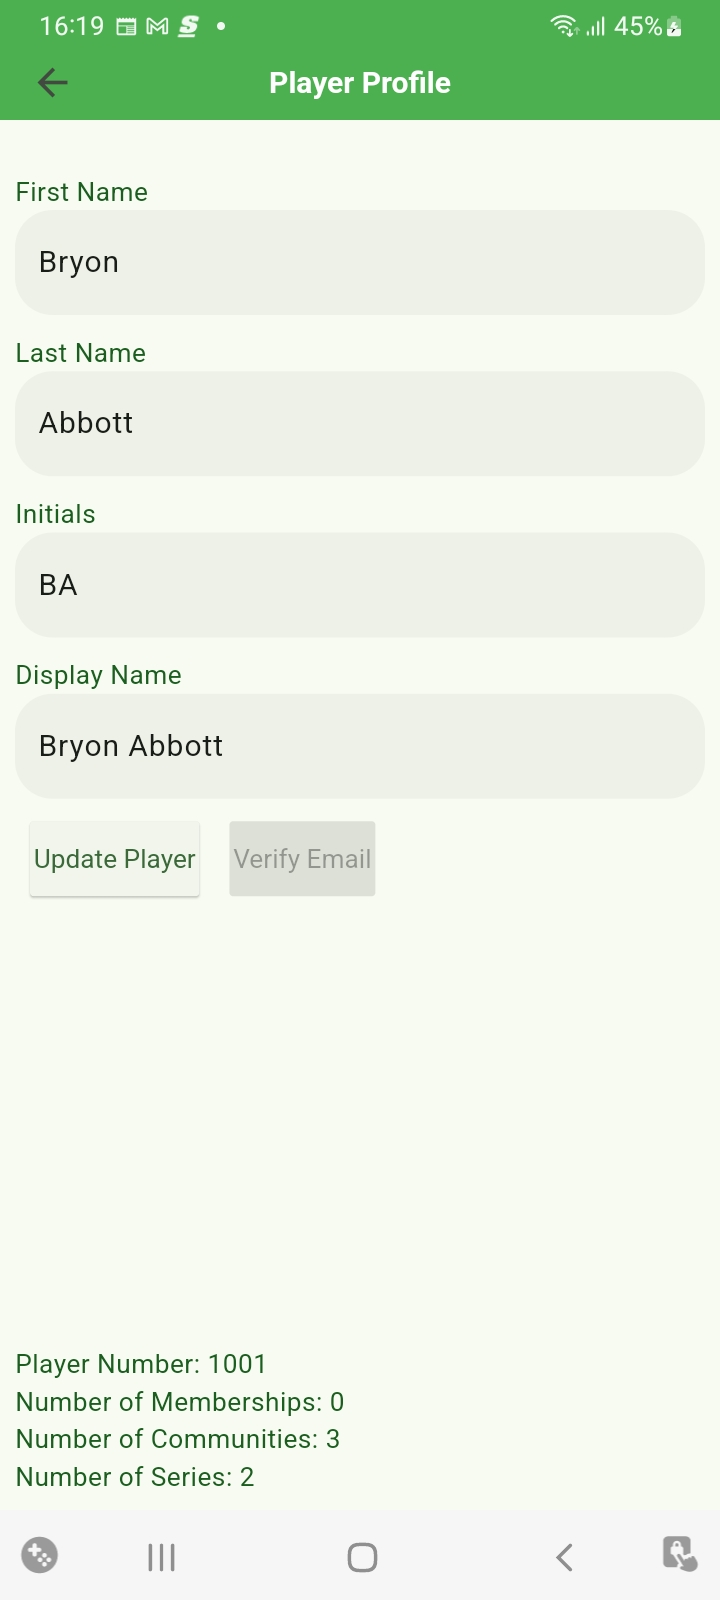
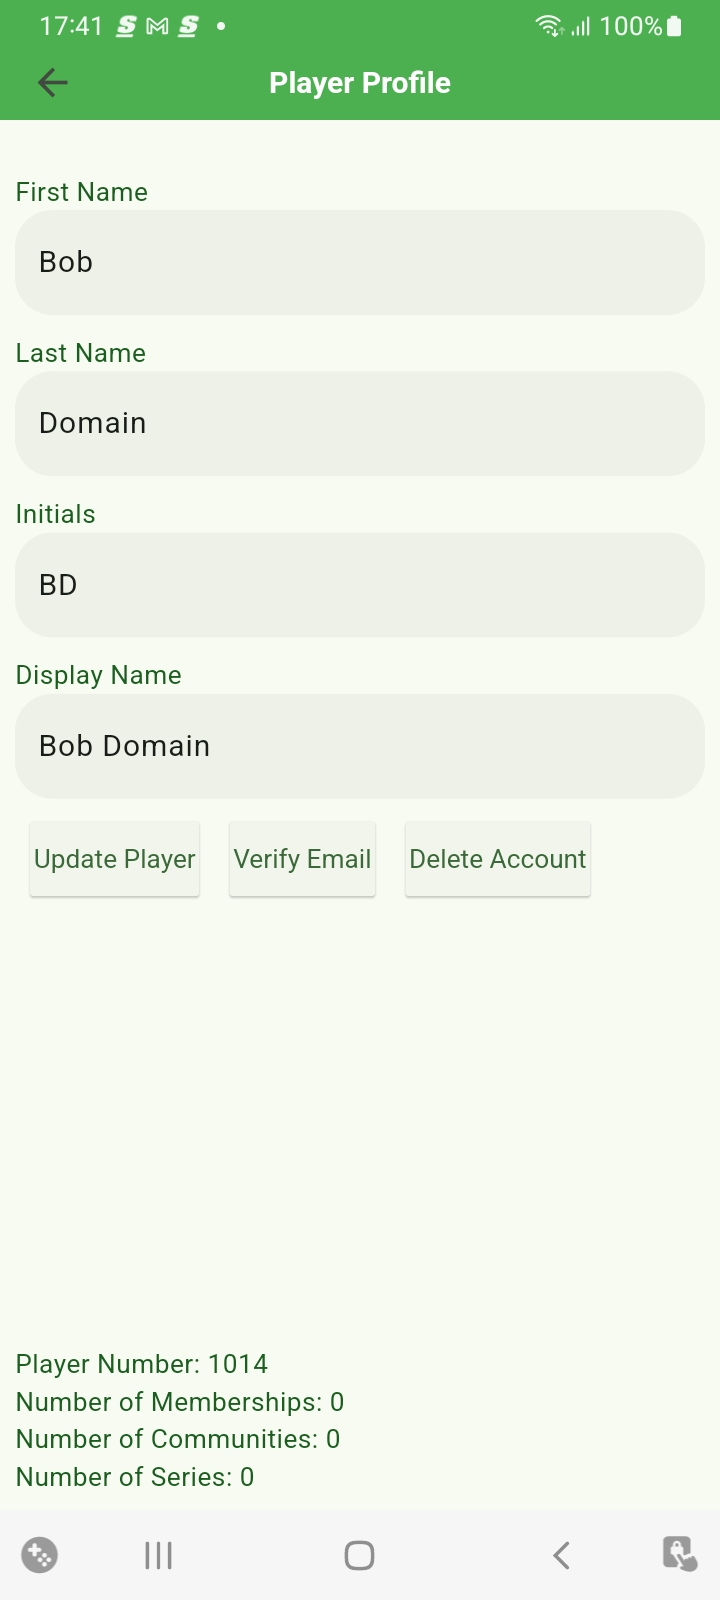
Added Delete capability on Profile Page Update Player model to include status (1=Active/0=Disabled)

diff --git a/lib/models/player.dart b/lib/models/player.dart
@@ -2,6 +2,7 @@ import 'dart:developer';
 
 import 'package:bruceboard/models/firestoredoc.dart';
 import 'package:bruceboard/services/auth.dart';
+import 'package:firebase_auth/firebase_auth.dart';
 import 'package:intl/intl.dart';
 
 class BruceUser {
@@ -31,6 +32,43 @@ class BruceUser {
   void sendPasswordResetEmail(email){
     _auth.sendPasswordResetEmail(email);
   }
+
+  bool deleteUserAccount()  {
+    try {
+      _auth.currentUser!.delete();
+    } on FirebaseAuthException catch (e) {
+      log("${e.code}, ${e.message}", name: '${runtimeType.toString()}:deleteUserAccount()');
+      if (e.code == "requires-recent-login") {
+        return false;
+        //        await _reauthenticateAndDelete();
+      } else {
+        // Handle other Firebase exceptions
+      }
+    } catch (e) {
+      log("${e}");
+      // Handle general exception
+    }
+    return true;
+  }
+
+  Future<void> _reauthenticateAndDelete() async {
+    log("Reauthenticating ... ", name: '${runtimeType.toString()}:_reauthenticateAndDelete()');
+    try {
+      final providerData = _auth.currentUser?.providerData.first;
+      if (AppleAuthProvider().providerId == providerData!.providerId) {
+        await _auth.currentUser!
+            .reauthenticateWithProvider(AppleAuthProvider());
+      } else if (GoogleAuthProvider().providerId == providerData.providerId) {
+        await _auth.currentUser!
+            .reauthenticateWithProvider(GoogleAuthProvider());
+      }
+
+      await _auth.currentUser?.delete();
+    } catch (e) {
+      log("Unhandled Error ... ", name: '${runtimeType.toString()}:_reauthenticateAndDelete()');
+      // Handle exceptions
+    }
+  }
 }
 
 class Player implements FirestoreDoc {
@@ -49,6 +87,7 @@ class Player implements FirestoreDoc {
   String lName;
   String initials;
   int pid;
+  int status;  // 0 = Deleted, 1 = Active,
 
   // Totals
   int noMemberships = 0;
@@ -74,6 +113,7 @@ class Player implements FirestoreDoc {
         fName = data['fName'] ?? 'Fname',
         lName = data['lName'] ?? 'Lname',
         initials = data['initials'] ?? 'FL',
+        status = data['status'] ?? 1,  // If not found, assume active?
         autoProcessReq = data['autoProcessReq'] ?? false,
         autoProcessNot = data['autoProcessNot'] ?? false,
         autoProcessAck = data['autoProcessAck'] ?? false,
@@ -104,6 +144,7 @@ class Player implements FirestoreDoc {
     fName = data['fName'] ?? fName;
     lName = data['lName'] ?? lName;
     initials = data['initials'] ?? initials;
+    status = data['status'] ?? status;
     autoProcessReq = data['autoProcessReq'] ?? autoProcessReq;
     autoProcessNot = data['autoProcessNot'] ?? autoProcessNot;
     autoProcessAck = data['autoProcessAck'] ?? autoProcessAck;
@@ -137,6 +178,7 @@ class Player implements FirestoreDoc {
       'fName': fName,
       'lName': lName,
       'initials': initials,
+      'status': status,
       'autoProcessReq': autoProcessReq,  // Server Side - Not Required here?
       'autoProcessNot': autoProcessNot,
       'autoProcessAck': autoProcessAck,

diff --git a/lib/pages/player/player_profile_ctrl.dart b/lib/pages/player/player_profile_ctrl.dart
@@ -29,7 +29,7 @@ abstract class PlayerProfileCtrl extends State<PlayerProfilePage> {
       player.fName = _currentFName ?? player.fName;
       player.lName = _currentLName ?? player.lName;
       player.initials = _currentInitials ?? player.initials;
-      player.pid = player.pid;
+      //player.pid = player.pid;
       // log("player_profile: Update Player ${player.fName}");
       await DatabaseService(FSDocType.player, uid: bruceUser?.uid).fsDocUpdate(player);
       await AuthService().updateDisplayName(
@@ -46,5 +46,53 @@ abstract class PlayerProfileCtrl extends State<PlayerProfilePage> {
     if (bruceUser != null) {
       bruceUser!.sendEmailVerification();
     }
+  }
+
+  Future<void> deleteOnPressed() async {
+    log("Pressed delete", name: "${runtimeType.toString()}:deleteOnPressed()");
+    showDialog(
+      context: context,
+      builder: (BuildContext context) {
+        return AlertDialog(
+          title: const Text('Delete your Account?'),
+          content: const Text(
+              '''If you select Delete we will delete your account on our server.
+
+Your app data will also be deleted and you won't be able to retrieve it.
+
+Since this is a security-sensitive operation, you eventually are asked to login before your account can be deleted.'''),
+          actions: [
+            ElevatedButton(
+              child: const Text('Cancel'),
+              onPressed: () {
+                Navigator.of(context).pop();
+              },
+            ),
+            ElevatedButton(
+              child: const Text('Delete',
+                  style: TextStyle(color: Colors.red)
+              ),
+              onPressed:() {
+                log("Pressed second RED delete", name: "${runtimeType.toString()}:deleteOnPressed()");
+                bool rc = bruceUser!.deleteUserAccount();
+                if (rc) { // If deleted, set Player status to Disabled
+                  log("Account Deleted ...", name: "${runtimeType.toString()}:deleteOnPressed()");
+                  player.status = 0;
+                  DatabaseService(FSDocType.player, uid: bruceUser?.uid).fsDocUpdate(player);
+                  log("Player Update to Disabled ...", name: "${runtimeType.toString()}:deleteOnPressed()");
+                } else {
+                  // if (!context.mounted) return;
+                  log("Account NOT  Deleted ...", name: "${runtimeType.toString()}:deleteOnPressed()");
+                  ScaffoldMessenger.of(context).showSnackBar(
+                      const SnackBar(content: Text("This operation is sensitive and requires recent authentication. Log in again before retrying this request..."))
+                  );
+                }
+                Navigator.of(context).pop();
+              },
+            ),
+          ],
+        );
+      },
+    );
   }
 }

diff --git a/lib/pages/player/player_profile_page.dart b/lib/pages/player/player_profile_page.dart
@@ -89,6 +89,14 @@ class _PlayerProfilePage extends PlayerProfileCtrl {
                                   onPressed: (bruceUser?.emailVerified ?? true) ? null : verifyOnPressed,
                                   child: const Text("Verify Email")),
                             ),
+                            Padding(
+                              padding: const EdgeInsets.all(8.0),
+                              child: ElevatedButton(
+                                  onPressed:() async {
+                                    await deleteOnPressed();
+                                  },
+                                  child: const Text("Delete Account")),
+                            ),
                           ],
                         ),
                         const Spacer(),
